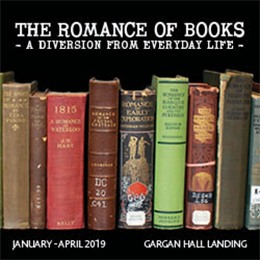
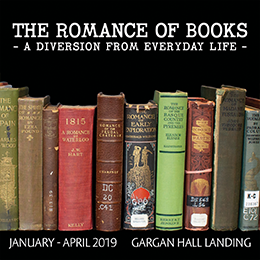
More news
So much news this week

diff --git a/content/news/news/2019-01-22-ExhibitGargan.md b/content/news/news/2019-01-22-ExhibitGargan.md
@@ -1,0 +1,15 @@
+Title: The Romance of Books
+Destination: https://library.bc.edu/exhibits/2019/Jan/romance-of-books/
+Date: 2019-01-22 01:05
+Tags: news, tags 
+Slug: exhibit-romance-books
+Expired: no
+ShowText: yes
+Image_alt: A row of books
+Image_thumb: 2019-01/romance-thumb.png
+
+Many of us are familiar with romance as a concept of romantic love, but what if we looked at it in a different way? In literature, romance can be associated with adventure and things remote from everyday life. It evokes glamour, allure, and mystique, qualities of excitement.
+
+In addition to the expected tales of romantic love, Burns Library’s romances are convenient, armchair travel introductions to far away places and cultures. On display are a few examples of the many Burns Library books that include the word “romance” in the title or subtitle.
+
+If you were going to lose yourself for hours, exploring a different place and time through the pages of a book - no passport or travel required - what would your romance be?

diff --git a/content/news/news/2018-12-17-FacPubTabloski.md b/content/news/news/2018-12-17-FacPubTabloski.md
@@ -1,6 +1,6 @@
 Title: Faculty Publication Highlight: Patricia A. Tabloski and Joanne Evans 
 Destination: https://library.bc.edu/facpub/2018/Oct/tabloski-redefining/
-Date: 2018-12-17 01:02
+Date: 2018-12-17 01:09
 Tags: news, tags 
 Slug: facpub-tabloski-redefining-retirement
 Expired: yes
